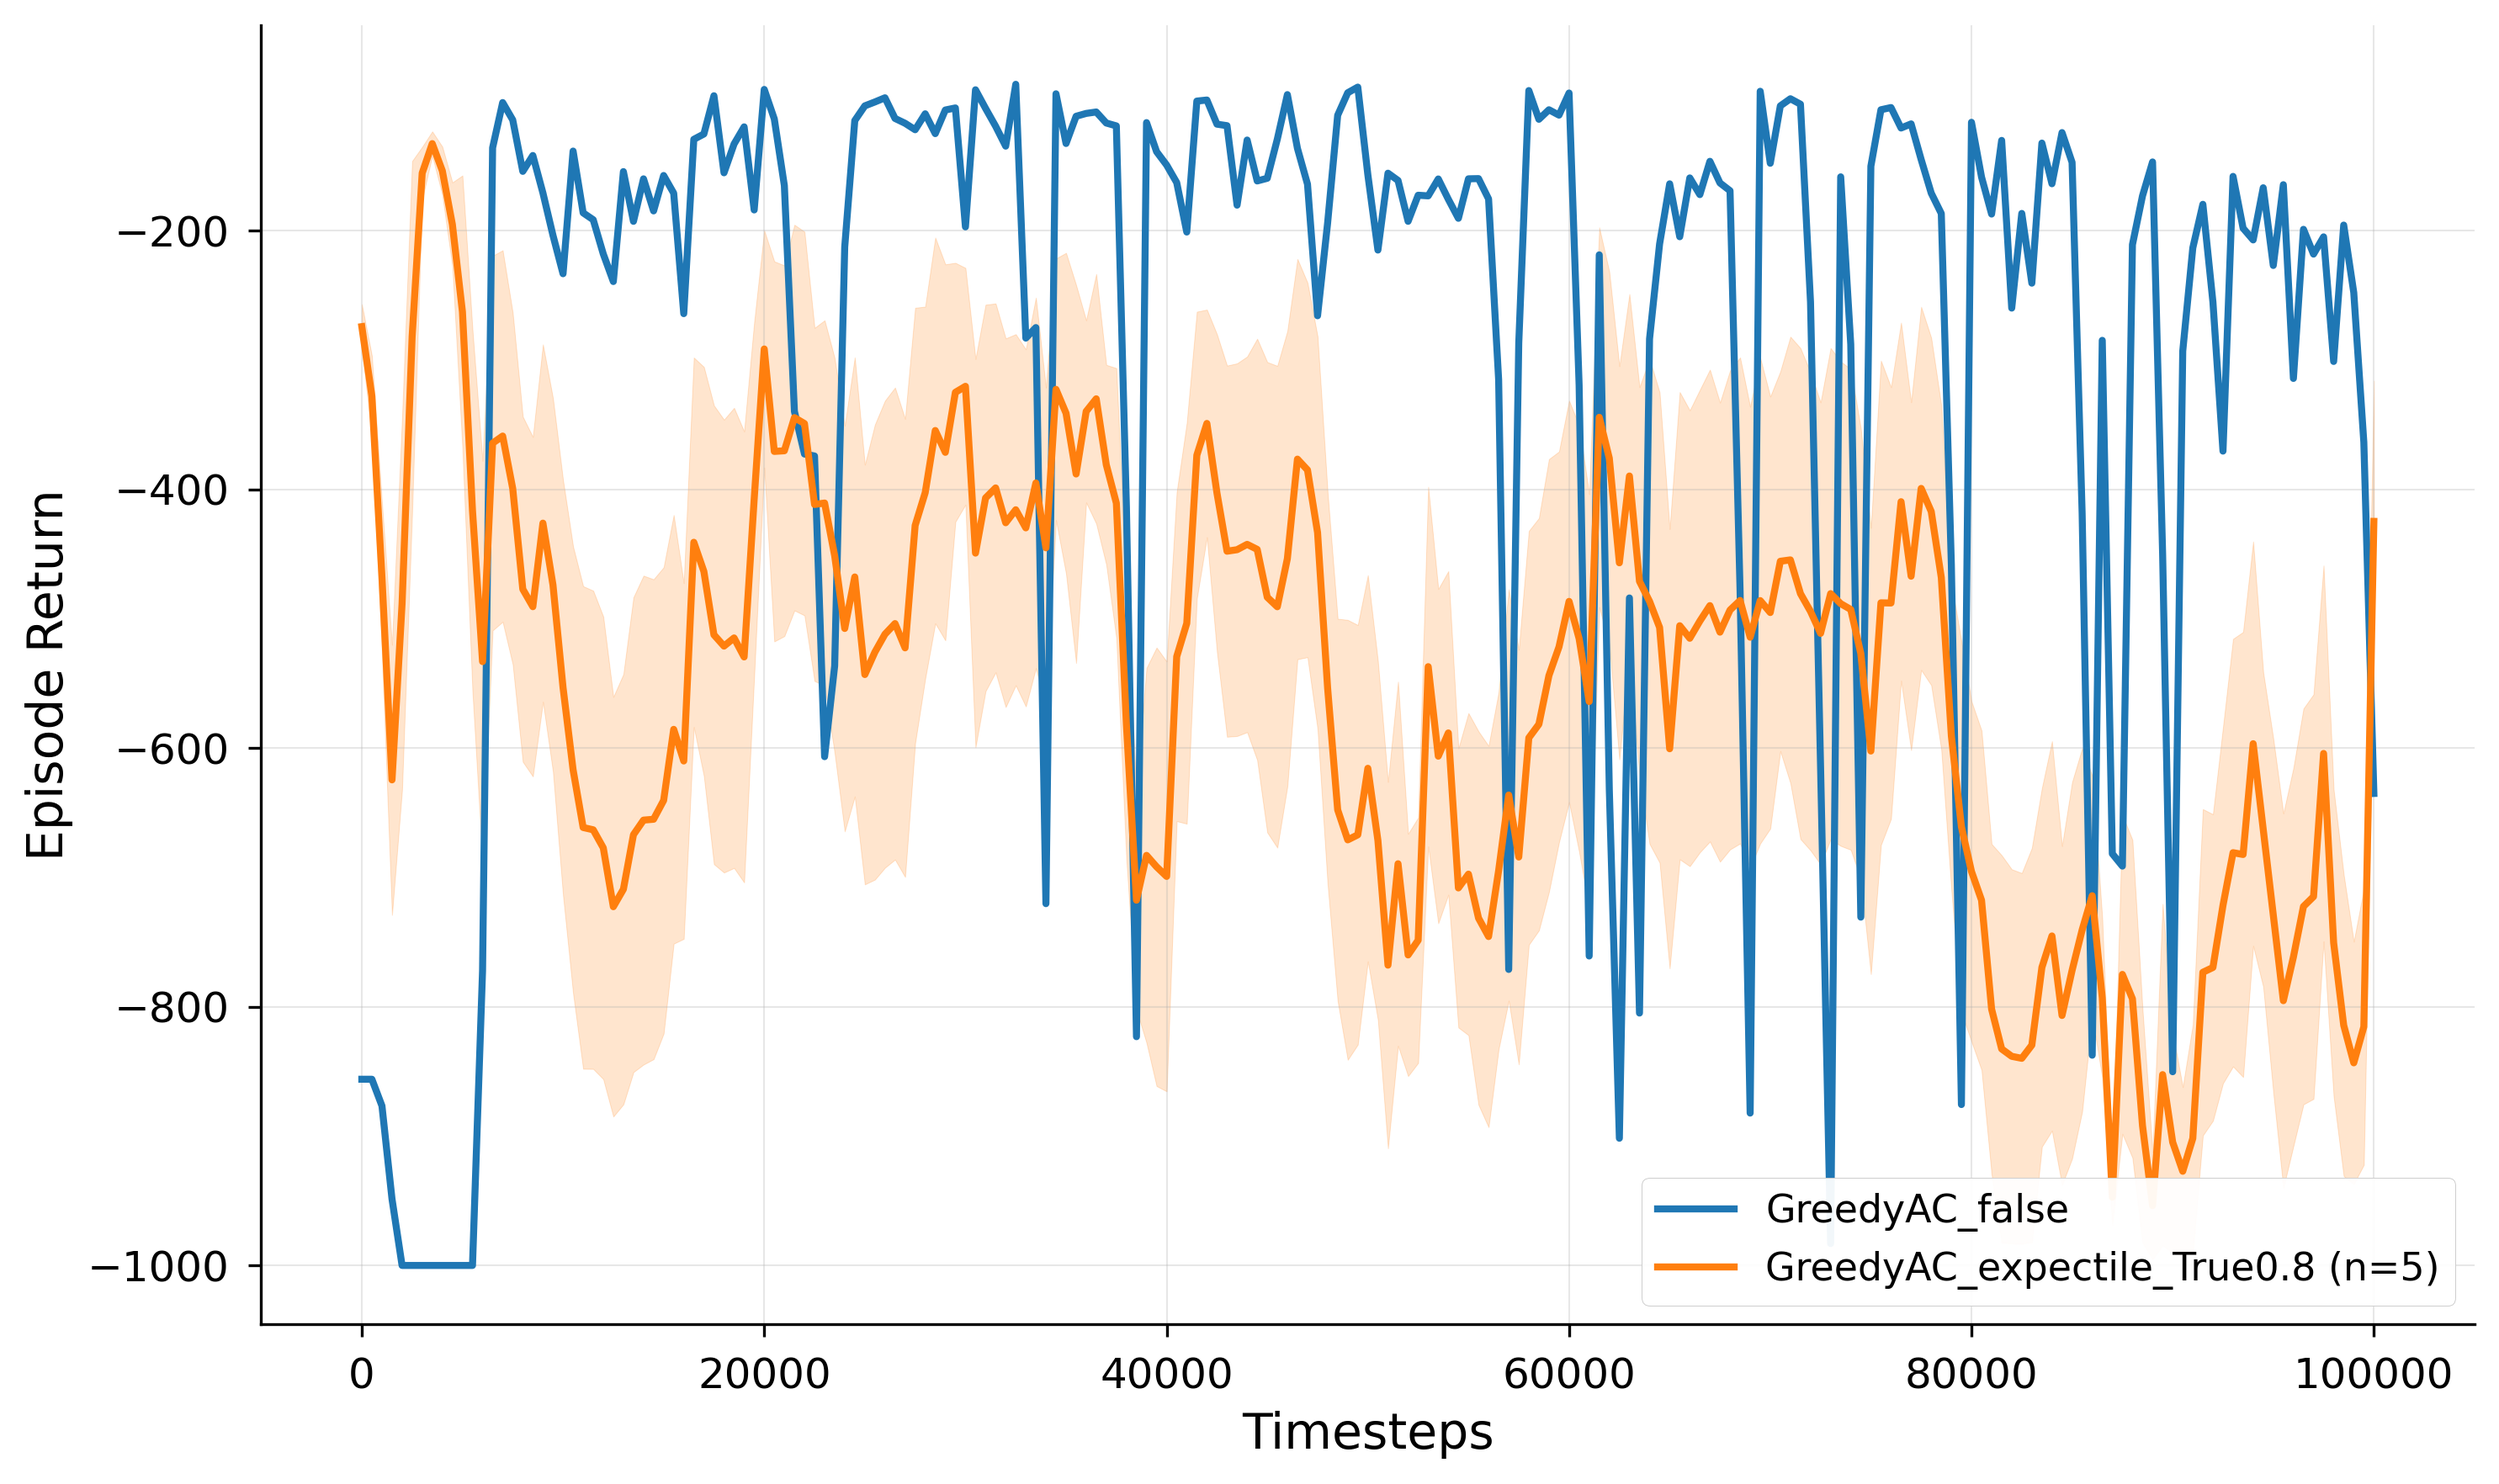
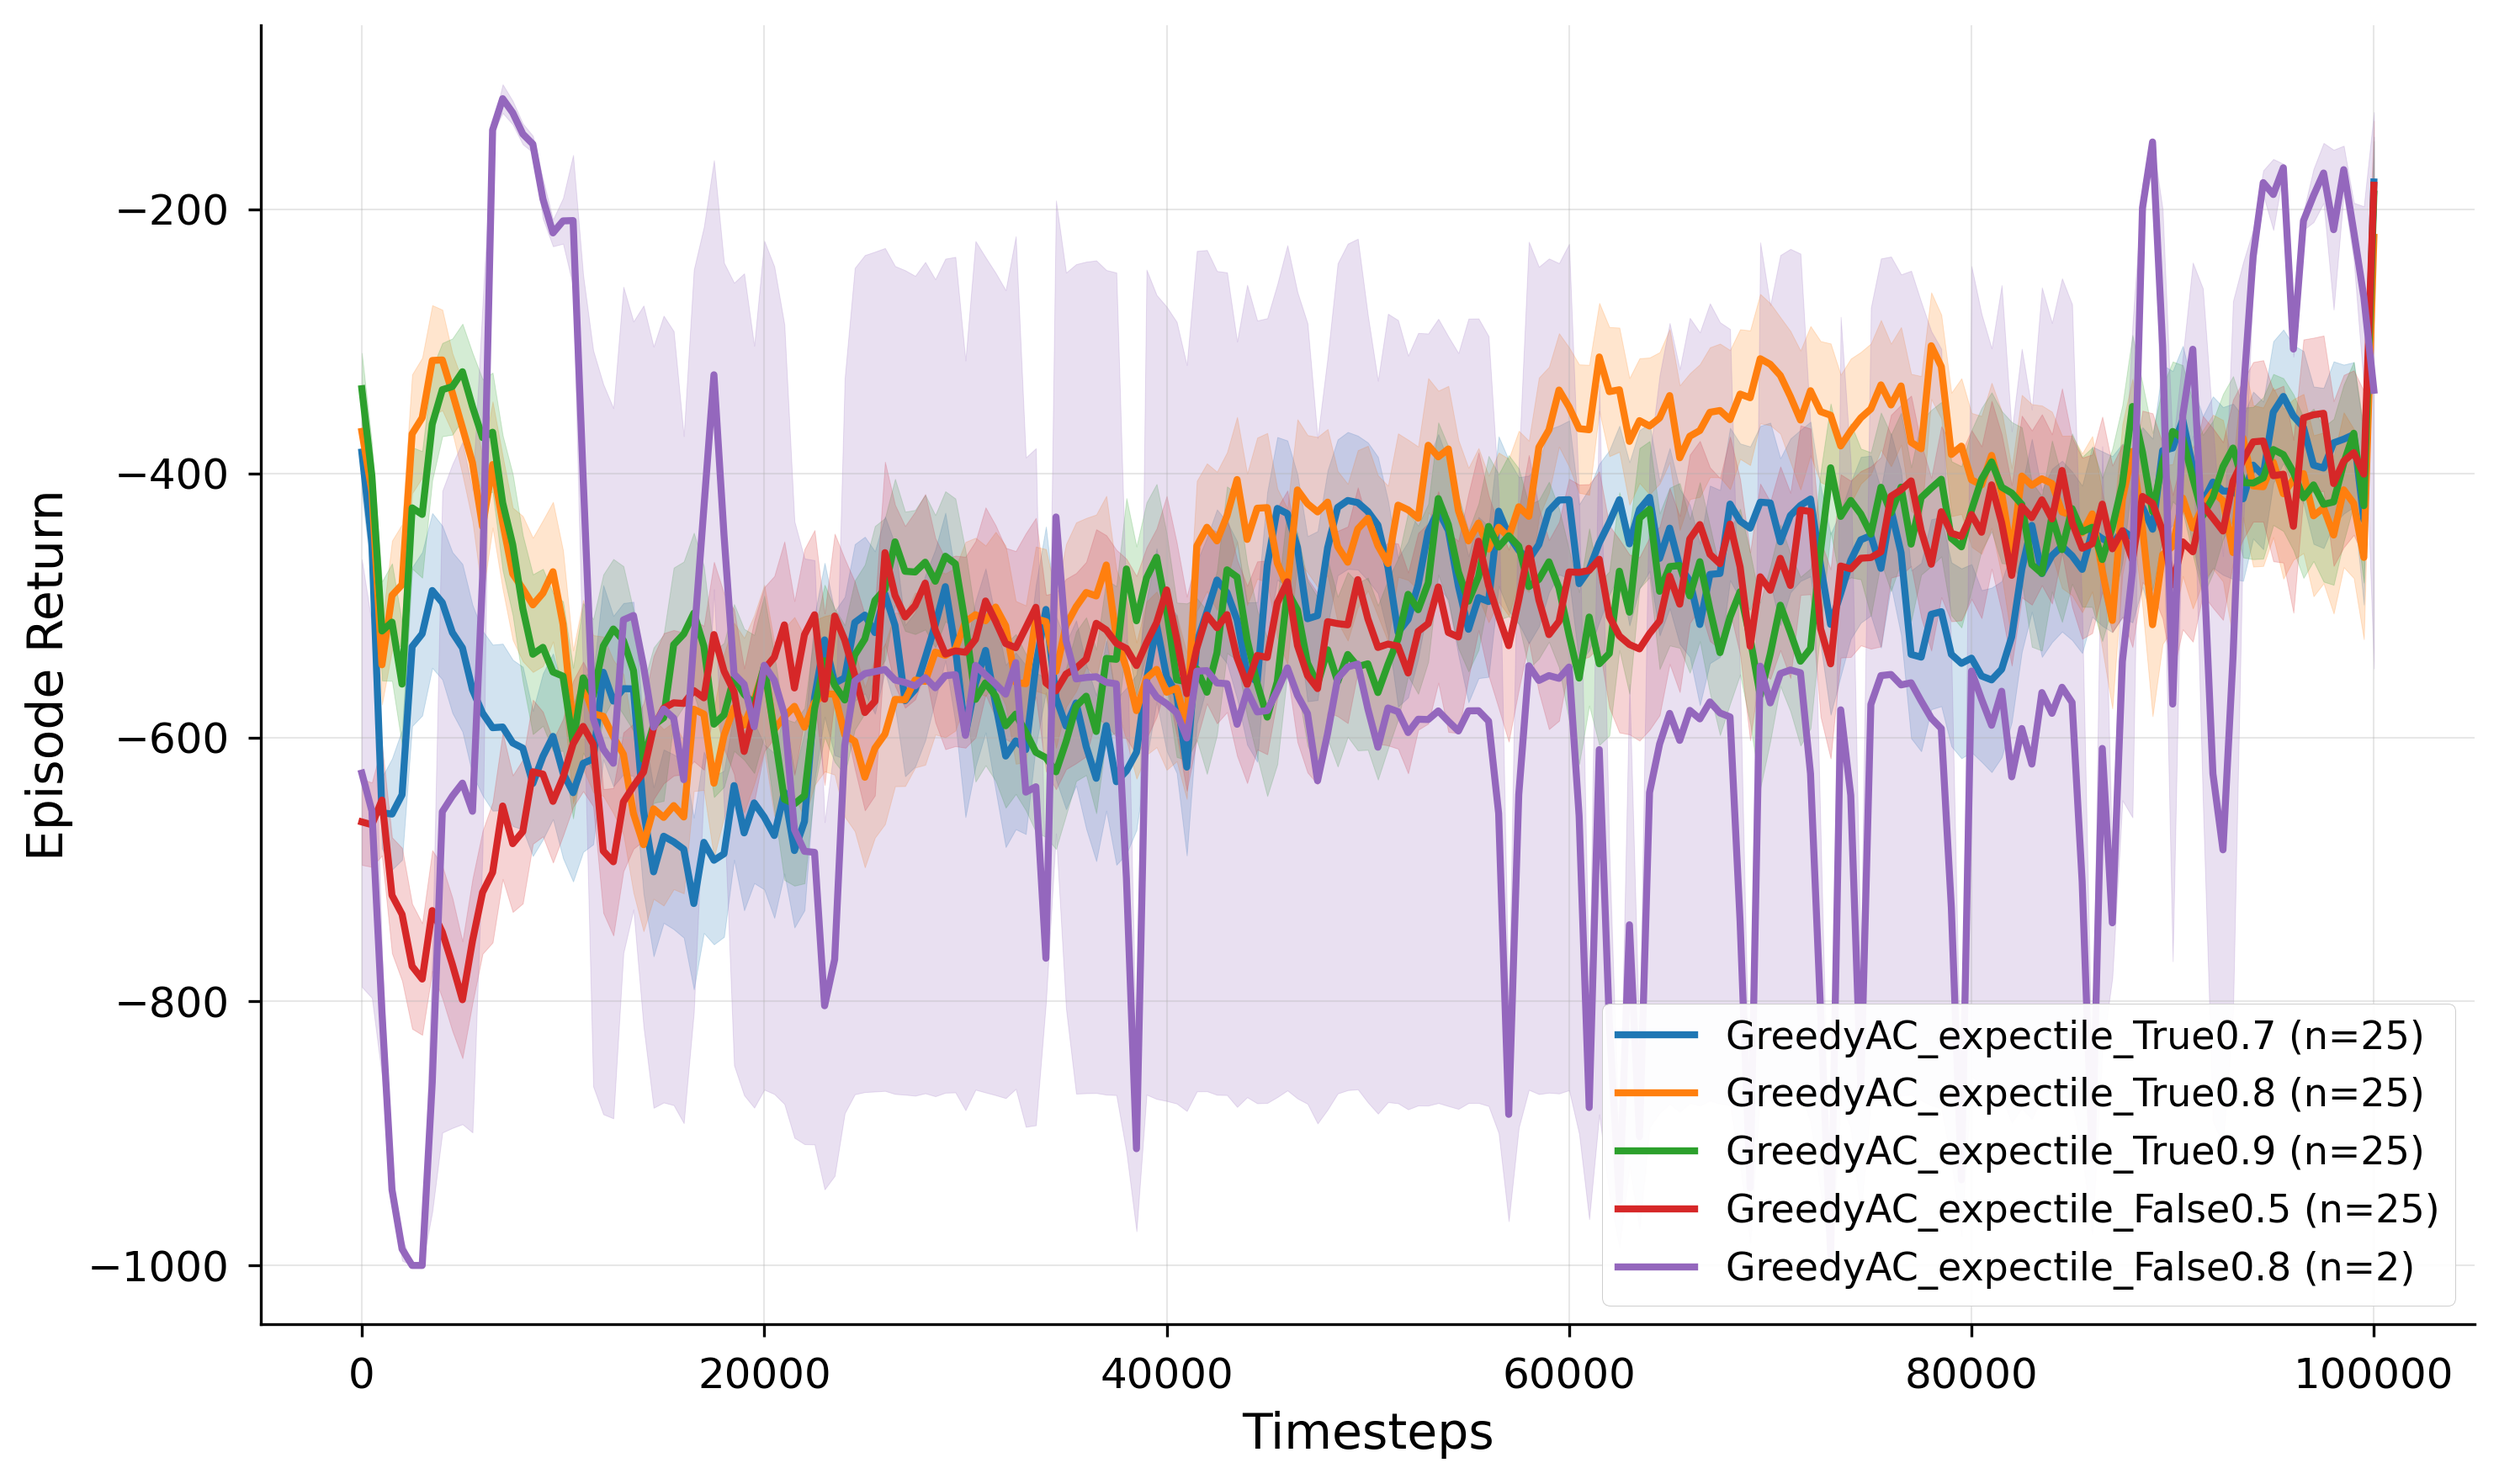
add exploration only greedification

diff --git a/agent/nonlinear/GreedyAC.py b/agent/nonlinear/GreedyAC.py
@@ -13,6 +13,7 @@ import agent.nonlinear.nn_utils as nn_utils
 import inspect
 
 
+
 class GreedyAC(BaseAgent):
     """
     GreedyAC implements the GreedyAC algorithm with continuous actions.
@@ -22,7 +23,7 @@ class GreedyAC(BaseAgent):
                  actor_hidden_dim, critic_hidden_dim, replay_capacity, seed,
                  batch_size, rho, num_samples, betas, env, cuda=False,
                  clip_stddev=1000, init=None, entropy_from_single_sample=True,
-                 activation="relu", use_expectile=True):
+                 activation="relu", use_expectile=True, use_greedy_exp=False):
         super().__init__()
 
         self.batch = True
@@ -47,6 +48,7 @@ class GreedyAC(BaseAgent):
         self.discrete_action = isinstance(action_space, Discrete)
         self.action_space = action_space
         self.use_expectile = use_expectile
+        self.use_greedy_exp = use_greedy_exp
 
         self.device = torch.device("cuda:0" if cuda and
                                    torch.cuda.is_available() else "cpu")
@@ -88,6 +90,13 @@ class GreedyAC(BaseAgent):
 
             self.value_optim = Adam(self.value.parameters(), lr=critic_lr,
                                     betas=betas)
+            
+        if self.use_greedy_exp:
+            self.greedy_critic = QMLP(num_inputs, action_shape, critic_hidden_dim,
+                                      init, activation).to(device=self.device)
+            
+            self.greedy_critic_optim = Adam(self.greedy_critic.parameters(), lr=critic_lr,
+                                            betas=betas)
 
         self.critic = QMLP(num_inputs, action_shape, critic_hidden_dim,
                            init, activation).to(device=self.device)
@@ -147,6 +156,16 @@ class GreedyAC(BaseAgent):
             self.value_optim.zero_grad()
             v_loss.backward()
             self.value_optim.step()
+            
+        if self.use_greedy_exp:
+            with torch.no_grad():
+                q = self.critic(state_batch, action_batch)
+            greedy_q = self.greedy_critic(state_batch, action_batch)
+            gloss = self.expectile_loss(q - greedy_q, self.expectile)
+            
+            self.greedy_critic_optim.zero_grad()
+            gloss.backward()
+            self.greedy_critic_optim.step()
         
 
         # When updating Q functions, we don't want to backprop through the
@@ -190,8 +209,11 @@ class GreedyAC(BaseAgent):
         # Get the values of the sampled actions and find the best
         # ϱ * num_samples actions
         with torch.no_grad():
-            q_values = self.critic(stacked_s_batch, action_batch)
-
+            if self.use_greedy_exp:
+                q_values = self.greedy_critic(stacked_s_batch, action_batch)
+            else:
+                q_values = self.critic(stacked_s_batch, action_batch)
+        
         q_values = q_values.reshape(self.batch_size, self.num_samples,
                                     1)
         sorted_q = torch.argsort(q_values, dim=1, descending=True)
